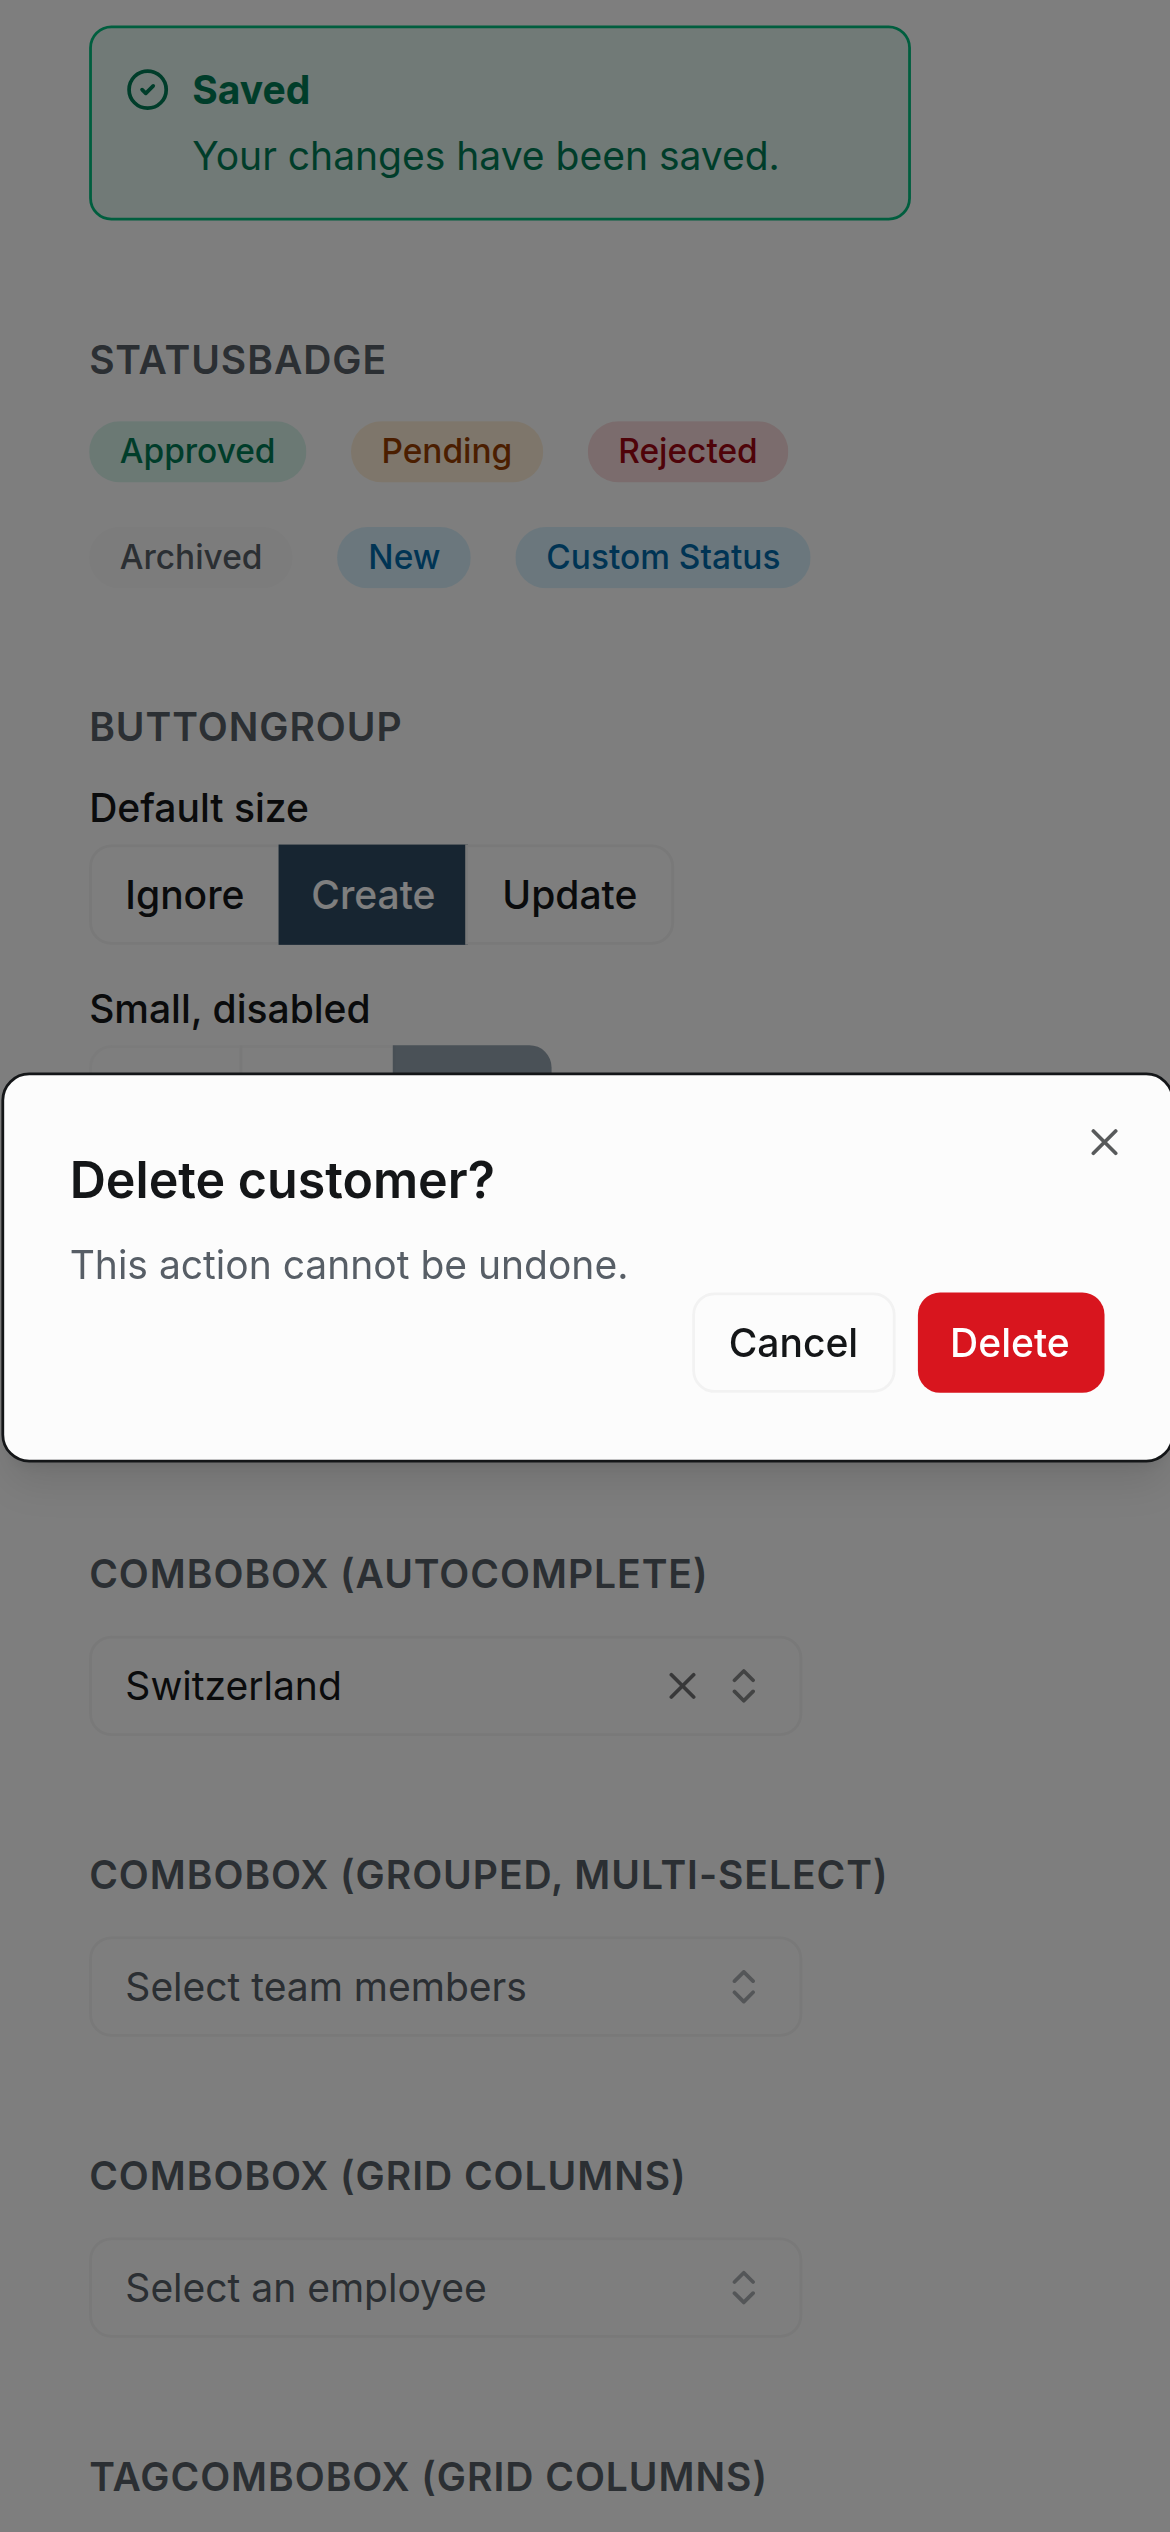
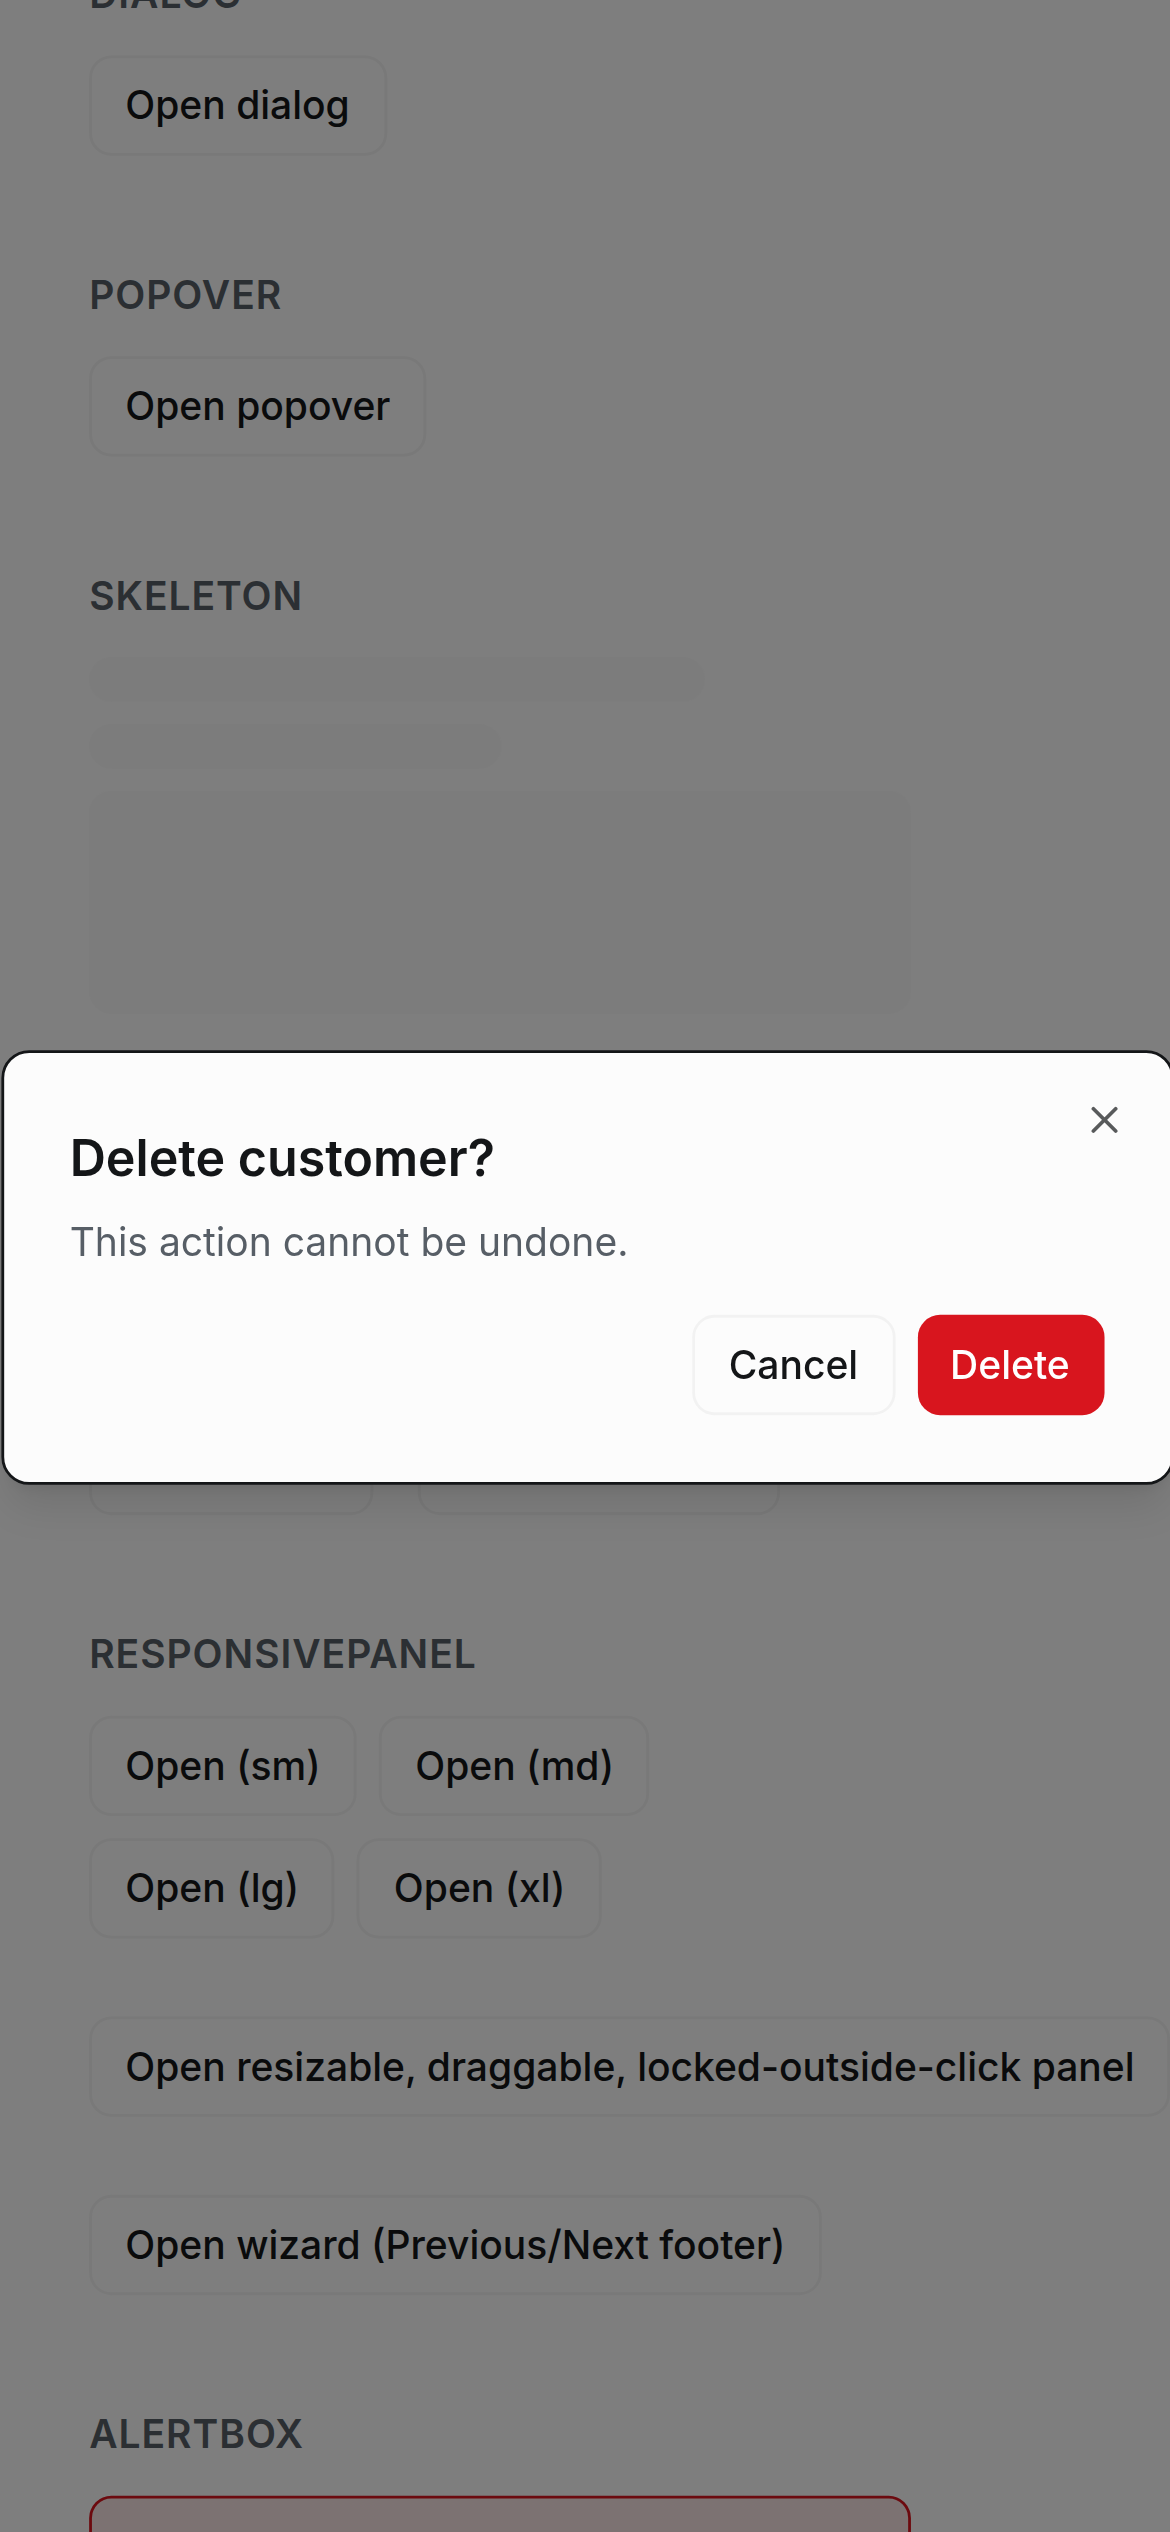
fix(ui): put the primary action opposite Cancel, not next to it
DialogActions previously put the action nearest Cancel adjacent to it
(last element of `actions` neighboring `cancel`), which is backwards —
native "Save changes?"-style dialogs put the primary action at the edge
*opposite* Cancel: Windows is `Save · Don't Save · Cancel`, macOS/iOS is
`Cancel · Don't Save · Save`. Flipped which side gets reversed so the last
element of `actions` (the primary action) always lands furthest from
Cancel instead of nearest to it. The 2-button ConfirmDialog case is
unaffected (reversing a 1-element array is a no-op).

Also added `mt-4` to `DialogFooter` — with no body content (ConfirmDialog/
QuestionDialog render `{null}` as children), the button row previously sat
flush against the title/description with no breathing room.

Claude-Session: https://claude.ai/code/session_01Wbg1f7HpLvF4k7RQN362TX

diff --git a/packages/ui/src/patterns/modal/DialogActions.tsx b/packages/ui/src/patterns/modal/DialogActions.tsx
@@ -4,9 +4,9 @@ import { getConfirmButtonPlacement } from "../../lib/platform";
 
 export interface DialogActionsProps {
   /**
-   * The dialog's non-cancel actions, ordered from *furthest from Cancel* to
-   * *nearest to Cancel* — e.g. `[secondaryAction, primaryAction]`. For a
-   * plain two-button confirm dialog, pass a single primary action here.
+   * The dialog's non-cancel actions, ordered from *nearest to Cancel* to
+   * *most primary* — e.g. `[secondaryAction, primaryAction]`. For a plain
+   * two-button confirm dialog, pass a single primary action here.
    */
   actions: ReactNode[];
   /** The dismissive/cancel action. */
@@ -22,11 +22,15 @@ export interface DialogActionsProps {
  * directly for any other dialog/panel footer with the same
  * actions-plus-cancel shape.
  *
- * `actions` is reversed when Cancel sits on the left, so the action nearest
- * Cancel is always the *last* element of `actions` and the one furthest
- * from Cancel is always the *first*, regardless of platform — a caller
- * picks the order once, by meaning, and doesn't have to reason about which
- * edge Cancel lands on.
+ * Matches native multi-button "Save changes?"-style dialogs: the most
+ * primary action sits at the edge *opposite* Cancel (Windows:
+ * `Save · Don't Save · Cancel`; iOS/macOS: `Cancel · Don't Save · Save`),
+ * not next to it. `actions` is reversed when Cancel sits on the right
+ * (Windows), so the last element of `actions` — the primary action — is
+ * always the one furthest from Cancel, and the first element is always the
+ * one nearest Cancel, regardless of platform — a caller picks the order
+ * once, by meaning, and doesn't have to reason about which edge Cancel
+ * lands on.
  *
  * Renders no wrapping element of its own — nest it inside the caller's own
  * footer container (e.g. `DialogFooter`, or `Modal`'s `footer` prop) for
@@ -37,7 +41,7 @@ export function DialogActions({ actions, cancel }: DialogActionsProps): ReactEle
   // than re-read from `navigator` on every render.
   const [placement] = useState(getConfirmButtonPlacement);
   const cancelLeading = placement === "trailing";
-  const ordered = cancelLeading ? [...actions].reverse() : actions;
+  const ordered = cancelLeading ? actions : [...actions].reverse();
 
   const renderedActions = ordered.map((action, index) => (
     <Fragment key={actionKey(action, index)}>{action}</Fragment>

diff --git a/packages/ui/tests/patterns/modal/QuestionDialog.test.tsx b/packages/ui/tests/patterns/modal/QuestionDialog.test.tsx
@@ -45,7 +45,7 @@ describe("QuestionDialog", () => {
     expect(screen.getByRole("button", { name: "Cancel" })).toBeInTheDocument();
   });
 
-  it("puts the action nearest Cancel last in `actions`, adjacent to Cancel, on Windows", () => {
+  it("puts the primary (last) action opposite Cancel — leading, with Cancel trailing — on Windows", () => {
     vi.spyOn(navigator, "userAgent", "get").mockReturnValue(
       "Mozilla/5.0 (Windows NT 10.0; Win64; x64) AppleWebKit/537.36",
     );
@@ -64,10 +64,10 @@ describe("QuestionDialog", () => {
     const buttons = screen
       .getAllByRole("button", { name: /^(Don't Save|Save|Cancel)$/ })
       .map((button) => button.textContent);
-    expect(buttons).toEqual(["Don't Save", "Save", "Cancel"]);
+    expect(buttons).toEqual(["Save", "Don't Save", "Cancel"]);
   });
 
-  it("reverses `actions` so the action nearest Cancel is still last, with Cancel leading, on iOS", () => {
+  it("puts the primary (last) action opposite Cancel — trailing, with Cancel leading — on iOS", () => {
     vi.spyOn(navigator, "userAgent", "get").mockReturnValue(
       "Mozilla/5.0 (iPhone; CPU iPhone OS 17_0 like Mac OS X) AppleWebKit/605.1.15",
     );
@@ -86,7 +86,7 @@ describe("QuestionDialog", () => {
     const buttons = screen
       .getAllByRole("button", { name: /^(Don't Save|Save|Cancel)$/ })
       .map((button) => button.textContent);
-    expect(buttons).toEqual(["Cancel", "Save", "Don't Save"]);
+    expect(buttons).toEqual(["Cancel", "Don't Save", "Save"]);
   });
 
   it("cancel closes without calling any action", async () => {

diff --git a/packages/ui/tests/patterns/modal/DialogActions.test.tsx b/packages/ui/tests/patterns/modal/DialogActions.test.tsx
@@ -27,7 +27,7 @@ describe("DialogActions", () => {
     expect(buttons).toEqual(["Cancel", "Save"]);
   });
 
-  it("keeps multiple actions in order, with Cancel trailing, on Windows", () => {
+  it("reverses multiple actions so the primary (last) action leads, with Cancel trailing, on Windows", () => {
     vi.spyOn(navigator, "userAgent", "get").mockReturnValue(
       "Mozilla/5.0 (Windows NT 10.0; Win64; x64) AppleWebKit/537.36",
     );
@@ -42,10 +42,10 @@ describe("DialogActions", () => {
     );
 
     const buttons = screen.getAllByRole("button").map((button) => button.textContent);
-    expect(buttons).toEqual(["Don't Save", "Save", "Cancel"]);
+    expect(buttons).toEqual(["Save", "Don't Save", "Cancel"]);
   });
 
-  it("reverses multiple actions, with Cancel leading, on iOS — the action nearest Cancel stays the same", () => {
+  it("keeps multiple actions in order, with Cancel leading and the primary (last) action trailing, on iOS", () => {
     vi.spyOn(navigator, "userAgent", "get").mockReturnValue(
       "Mozilla/5.0 (iPhone; CPU iPhone OS 17_0 like Mac OS X) AppleWebKit/605.1.15",
     );
@@ -60,6 +60,6 @@ describe("DialogActions", () => {
     );
 
     const buttons = screen.getAllByRole("button").map((button) => button.textContent);
-    expect(buttons).toEqual(["Cancel", "Save", "Don't Save"]);
+    expect(buttons).toEqual(["Cancel", "Don't Save", "Save"]);
   });
 });

diff --git a/packages/ui/src/patterns/modal/QuestionDialog.tsx b/packages/ui/src/patterns/modal/QuestionDialog.tsx
@@ -25,10 +25,11 @@ export interface QuestionDialogProps {
   /** Optional supporting copy shown under the title. */
   description?: string;
   /**
-   * The dialog's non-cancel actions, ordered from *furthest from Cancel* to
-   * *nearest to Cancel* (see `DialogActions`) — e.g.
-   * `[{ label: "Don't Save", ... }, { label: "Save", ... }]` puts "Save"
-   * next to Cancel on every platform.
+   * The dialog's non-cancel actions, ordered from *nearest Cancel* to *most
+   * primary* (see `DialogActions`) — e.g.
+   * `[{ label: "Don't Save", ... }, { label: "Save", ... }]` puts "Save",
+   * the primary action, at the edge opposite Cancel on every platform,
+   * matching native "Save changes?"-style dialogs.
    */
   actions: QuestionDialogAction[];
   /** Label for the cancel button. Defaults to `"Cancel"`. */
@@ -48,7 +49,7 @@ export interface QuestionDialogProps {
  *
  * Button order follows the current platform's own convention via
  * `DialogActions` — pick `actions`' order by *meaning* (least to most
- * committal, say), not by which edge Cancel happens to land on.
+ * primary), not by which edge Cancel happens to land on.
  */
 export const QuestionDialog = ({
   open,

diff --git a/packages/ui/src/primitives/dialog.tsx b/packages/ui/src/primitives/dialog.tsx
@@ -83,5 +83,5 @@ export const DialogFooter = ({
   className,
   ...props
 }: HTMLAttributes<HTMLDivElement>): ReactElement => (
-  <div className={cn("flex justify-end gap-2", className)} {...props} />
+  <div className={cn("mt-4 flex justify-end gap-2", className)} {...props} />
 );
